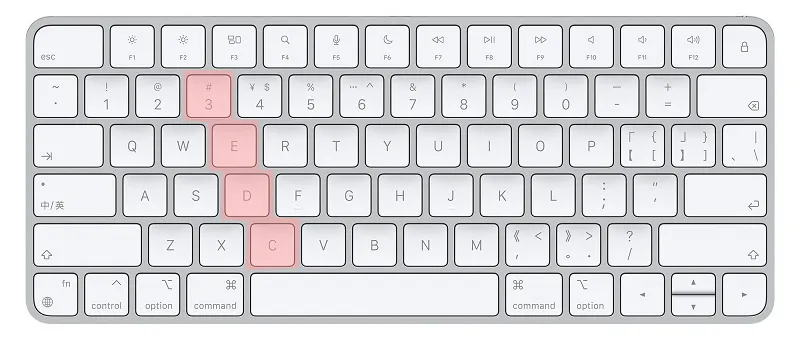
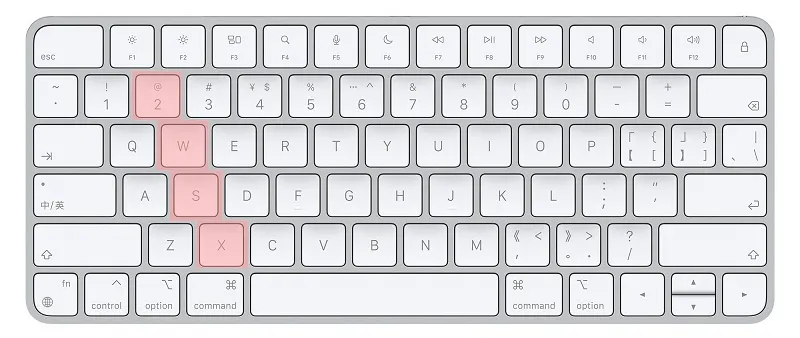
update typing figure

Changed region(s): [[0.1562, 0.2071, 0.375, 0.7988]]

diff --git a/slides/using-linux-desktop-system.md b/slides/using-linux-desktop-system.md
@@ -656,7 +656,7 @@ $ sed -i 's/SHELL/Shell/g` `grep SHELL -l *.md`
 	
 ### 左手小指键位
 
-<img class="r-frame" style="height:auto;width:100%;" src="assets/plzs-keyboard-typing-4.webp" />
+<img class="r-frame" style="height:auto;width:100%;" src="assets/plzs-keyboard-typing-4.png" />
 
 	
 ### 右手食指键位
